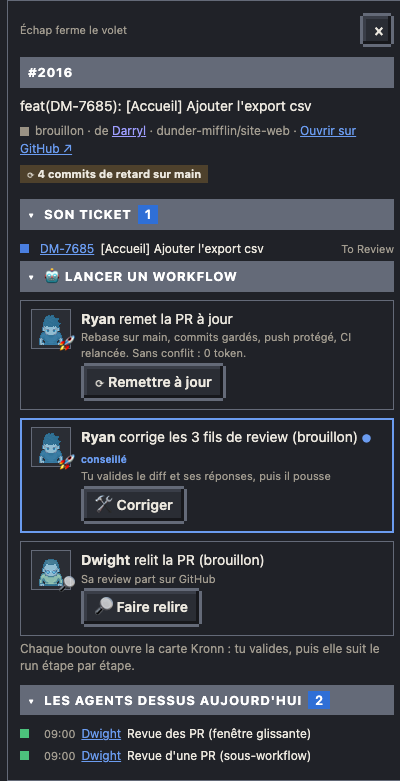
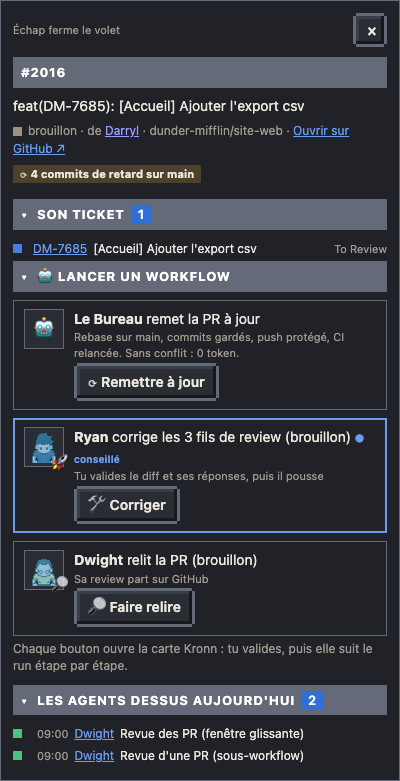
feat(fiches): un agent par bouton, rattachable par le pack
« Remettre à jour » prenait l'agent de « Corriger », et un intérimaire
(un workflow sans agent, renommé chaque jour) pouvait incarner un
bouton : deux boutons pour un même agent, et un nom qui change. Chaque
bouton montre désormais son agent à lui, sinon l'hologramme du Bureau.

« 🚀 Déployer la branche » montre aussi son agent en tête
(« Stanley déploie la branche »), comme les autres actions.

Un personnage du pack se rattache à un bouton des fiches par model
(« rebase », « env », « deploy » : clés de action_ids, workflow du
Bureau compris), ce que l'installateur ne propose jamais : toute
l'équipe a le même agent sur le même bouton.

diff --git a/page/src/62-deploy.js b/page/src/62-deploy.js
@@ -43,13 +43,15 @@ function dpLabel(s){
   if(s.mine)return s.ko?'↻ Relancer':'↻ Redéployer';
   return s.other?'⇄ Remplacer…':'🚀 Déployer';
 }
+const dpHead=c=>c?`<b>${esc(c.name)}</b> déploie la branche`:'<b>Déployer la branche</b>'; // son agent, sinon le titre seul
 function deployBlock(box,p){
   const envs=dpEnvs(p);if(!envs.length)return;
   const rows=new Set(((ACTS&&ACTS.deploys)||[]).map(d=>d.id));
   const host=document.createElement('div');host.className='relaunch la dp';host.setAttribute('data-kronn-action-slot-host','');
-  host.innerHTML='<div class="la-av" aria-hidden="true">🚀</div>';
+  const c=actAgent('bureau-deploy'); // un agent par bouton des fiches ; sans agent, la fusée
+  if(c)host.appendChild(agentFace(c,'la-av'));else host.innerHTML='<div class="la-av" aria-hidden="true">🚀</div>';
   const t=document.createElement('div');t.className='la-t';
-  t.innerHTML=`<div class="la-n"><b>Déployer la branche</b></div><div class="rl-s">Construit <code class="dp-br">${esc(p.head)}</code> et la pousse sur un env partagé. Qui l'occupe en ce moment :</div>`;
+  t.innerHTML=`<div class="la-n">${dpHead(c)}</div><div class="rl-s">Construit <code class="dp-br">${esc(p.head)}</code> et la pousse sur un env partagé. Qui l'occupe en ce moment :</div>`;
   const list=document.createElement('div');list.className='dp-envs';
   for(const {repo,env} of envs){
     const s=dpState(p,repo,env), E=env.toUpperCase(), id=prId(p)+'|'+env, label=dpLabel(s);

diff --git a/page/src/62-ticket.js b/page/src/62-ticket.js
@@ -53,13 +53,14 @@ function bindsFor(action,row){
 }
 // ---------- qui fait quoi dans « Lancer un workflow » (#86) ----------
 // chaque bouton montre l'agent qui l'incarne : celui dont agents[].wf contient l'id du workflow de l'action (CFG.action_wf,
-// calculé à l'assemblage ; jamais un nom écrit en dur) ; « Remettre à jour » sans agent : celui de « Corriger » ;
-// « Commenter » : toi (le commentaire part avec ton compte Jira) ; sinon l'hologramme du Bureau
+// calculé à l'assemblage ; jamais un nom écrit en dur), un agent par workflow, jamais celui d'un autre bouton ni un
+// intérimaire (il change chaque jour) ; « Commenter » : toi (le commentaire part avec ton compte Jira) ; sinon
+// l'hologramme du Bureau
 const actKey=a=>({meppr:'mep_pr',fixpr:'fix_pr'})[a.slice(7)]||a.slice(7); // 'bureau-fixpr' -> clé fix_pr de la config
 function actAgent(action){
   const wf=((CFG.action_wf||{})[actKey(action)]||'').slice(0,8);
-  return wf&&chars.find(x=>!x.person&&!x.visitor&&(x.wf||[]).includes(wf))
-    ||(action==='bureau-rebase'?actAgent('bureau-fixpr')||actAgent('bureau-fix'):action==='bureau-comment'?chars.find(x=>x.boss):null)||null;
+  return wf&&chars.find(x=>!x.person&&!x.visitor&&!x.temp&&(x.wf||[]).includes(wf))
+    ||(action==='bureau-comment'?chars.find(x=>x.boss):null)||null;
 }
 // le run en cours de cet agent sur ce ticket ou cette PR (sa carte dit « dessus depuis… » et grise le bouton), sinon null
 function agentBusy(c,bind){

diff --git a/tests/ticket.test.js b/tests/ticket.test.js
@@ -161,9 +161,11 @@ const WITH = (code, body) => J(`(() => { const c0 = chars.slice(), a0 = CFG.acti
   Object.assign(ACTIONS, {impl: true, review: true, fix_pr: true, rebase: true, mep_pr: true, mep: false});
   try { ${code}; return (${body}); } finally { chars.length = 0; chars.push(...c0); CFG.action_wf = a0; Object.assign(ACTIONS, ac0); } })()`);
 
-test('#86 agent de chaque action : celui dont agents[].wf contient le workflow ; rebase sans agent : celui de Corriger ; Commenter : toi', () => {
+test('#86 agent de chaque action : celui dont agents[].wf contient le workflow, jamais celui d\'un autre bouton ni un intérimaire ; Commenter : toi', () => {
   assert.deepEqual(WITH('', `['bureau-fixpr', 'bureau-review', 'bureau-meppr', 'bureau-impl', 'bureau-rebase'].map(a => (actAgent(a) || {}).name)`),
-    ['Nate', 'Mose', 'Darryl', 'Ryan', 'Nate']);
+    ['Nate', 'Mose', 'Darryl', 'Ryan', null]); // rebase sans agent : l'hologramme, plus celui de « Corriger »
+  assert.equal(WITH(`chars.push({key: 'temp_eeee5555', name: 'Intérimaire 1', wf: ['eeee5555'], temp: true, runs: []})`, `actAgent('bureau-rebase')`), null);
+  assert.equal(WITH(`chars.push({key: 'jim', name: 'Jim', wf: ['eeee5555'], runs: []})`, `actAgent('bureau-rebase').name`), 'Jim');
   assert.equal(WITH('', `actAgent('bureau-comment') === chars.find(c => c.boss)`), true);
   assert.equal(WITH('CFG.action_wf = {}', `actAgent('bureau-review')`), null); // sans agent : l'hologramme du Bureau
 });

diff --git a/tests/deploy.test.js b/tests/deploy.test.js
@@ -70,3 +70,11 @@ test('juste après un lancement : « ⏳ demandé » (grisé) jusqu\'au run GitH
   assert.equal(dev(run({ref: 'feat/DM-1', start: at(60)}), {asked: 30e3}).label, null); // vieux run : toujours demandé
   assert.equal(dev(null, {asked: 16 * 60e3}).label, '🚀 Déployer'); // 15 min passées sans run : on oublie
 });
+
+test('en tête du bloc : l\'agent du modèle deploy (« Stanley déploie la branche »), sinon le titre seul', () => {
+  const head = wf => J(`(() => { const c0 = chars.slice(), a0 = CFG.action_wf;
+    chars.push({key: 'stanley', name: 'Stanley', wf: ['ffff6666'], runs: []}); CFG.action_wf = {deploy: '${wf}'};
+    try { return dpHead(actAgent('bureau-deploy')); } finally { chars.length = 0; chars.push(...c0); CFG.action_wf = a0; } })()`);
+  assert.equal(head('ffff6666'), '<b>Stanley</b> déploie la branche');
+  assert.equal(head('99999999'), '<b>Déployer la branche</b>');
+});

diff --git a/tools/assemble.py b/tools/assemble.py
@@ -392,11 +392,12 @@ def merged(cfg):
         personas = {a["key"]: {k: v for k, v in a.items() if k != "model"} for a in s["agents"]}
         out["agents"] = [_agent(personas.get(a.get("key"), {}), a) for a in cfg.get("agents") or []]
         # personnage qui incarne un modèle du Bureau (clé model, #78) : rattaché d'office à ses workflows créés par
-        # l'installateur (models), sauf si la config le rattache déjà
-        bound, models = {a.get("key") for a in out["agents"]}, cfg.get("models") or {}
+        # l'installateur (models), sauf si la config le rattache déjà ; aussi un bouton des fiches (« rebase », « env » :
+        # le workflow du Bureau ou le tien, action_ids), que l'installateur ne propose jamais comme agent
+        bound, models = {a.get("key") for a in out["agents"]}, {**action_ids(cfg), **(cfg.get("models") or {})}
         for a in s["agents"]:
             want = [a["model"]] if isinstance(a.get("model"), str) else a.get("model") or []
-            wf = [models[m][:8] for m in want if models.get(m)]
+            wf = [str(models[m])[:8] for m in want if models.get(m)]
             if a["key"] not in bound and wf:
                 out["agents"].append(_agent({k: v for k, v in a.items() if k != "model"}, {"wf": wf}))
     return out

diff --git a/tests/test_models.py b/tests/test_models.py
@@ -132,6 +132,13 @@ class ModelsTest(unittest.TestCase):
         a = assemble.merged(c)["agents"]
         self.assertEqual(a[0], {"key": "dwight", "name": "Dwight", "role": "Revue des PR", "wf": ["99999999"]})  # rattaché par la config
         self.assertEqual(a[1], {"key": "mose", "name": "Mose", "role": "Relit une PR", "wf": ["aaaa1111"]})  # d'office, par son modèle
+        # un bouton des fiches aussi : workflow du Bureau (actions.rebase) ou le tien (launch.env), jamais proposé par l'installateur
+        Path(os.path.join(pack, "settings.json")).write_text(json.dumps({"agents": [
+            {"key": "jim", "name": "Jim", "role": "Remettre une PR à jour", "model": "rebase"},
+            {"key": "kevin", "name": "Kevin", "role": "Env de branche", "model": "env"}]}))
+        c = {**cfg(actions={"rebase": "cccc3333-0000-4000-8000-000000000000"}, launch={"env": {"wf": "dddd4444-0000-4000-8000-000000000000"}}),
+             "team": pack, "agents": []}
+        self.assertEqual([(x["key"], x["wf"]) for x in assemble.merged(c)["agents"]], [("jim", ["cccc3333"]), ("kevin", ["dddd4444"])])
         shutil.rmtree(tmp)
 
     def test_env_branch_model_relabels_the_pr_and_comes_from_the_team_pack(self):

diff --git a/guide/fonctionnalites/07-fiches.md b/guide/fonctionnalites/07-fiches.md
@@ -52,7 +52,7 @@ Sous « Personnaliser », sa ligne d'état tient sur une ligne (« Teste 7 ticke
 
 ![La carte Kronn du déplacement](../img/carte-deplacer.png)
 
-Dans « 🤖 Lancer un workflow », chaque action montre **l'agent qui la fait** : son portrait pixel, l'icône de son métier, et une phrase (« **Nate** corrige les 5 fils de review »). L'agent est celui dont les workflows (`agents[].wf`, ou un personnage du pack) contiennent le workflow du bouton : son nom n'est jamais écrit en dur. « Remettre à jour » sans agent à lui est fait par l'agent de « Corriger » ; « Commenter », c'est toi (ton compte Jira) ; une action sans agent montre l'hologramme du Bureau. Un clic sur le portrait ouvre la fiche de l'agent. Les actions sont rangées par PR (« Sur la PR #1988 ») puis « Sur le ticket ». En tête, un bandeau montre **où en est le ticket** : implémente › corrige › relit › met en prod, avec l'agent de chaque étape (fait en vert, en cours en couleur, à venir en gris ; seulement les étapes que tu as branchées). L'action logique est encadrée, **● conseillé** : conflit ou retard sur la base → Remettre à jour, fils de review ouverts → Corriger, sinon Faire relire ; en To Deploy → Mettre en prod ; à faire sans PR → Implémenter. Une action pas encore possible est **grisée avec sa raison** (« quand le ticket sera en To Deploy (aujourd'hui : To Review) »). Quand l'agent est déjà dessus (un run en cours sur ce ticket ou cette PR), son bouton est grisé : « Nate est dessus depuis 10h12 ». Le coût moyen d'un run de l'agent (fiche de paie, 7 jours) s'affiche à côté quand il est connu.
+Dans « 🤖 Lancer un workflow », chaque action montre **l'agent qui la fait** : son portrait pixel, l'icône de son métier, et une phrase (« **Nate** corrige les 5 fils de review »). L'agent est celui dont les workflows (`agents[].wf`, ou un personnage du pack) contiennent le workflow du bouton : son nom n'est jamais écrit en dur. Un agent par bouton : jamais celui d'un autre bouton, ni un intérimaire (celui-là change chaque jour) ; « Commenter », c'est toi (ton compte Jira) ; une action sans agent montre l'hologramme du Bureau. Pour donner le même agent à toute l'équipe, le pack le rattache au bouton (`"model": "rebase"`, voir [Équipe](../equipe.md)). Un clic sur le portrait ouvre la fiche de l'agent. Les actions sont rangées par PR (« Sur la PR #1988 ») puis « Sur le ticket ». En tête, un bandeau montre **où en est le ticket** : implémente › corrige › relit › met en prod, avec l'agent de chaque étape (fait en vert, en cours en couleur, à venir en gris ; seulement les étapes que tu as branchées). L'action logique est encadrée, **● conseillé** : conflit ou retard sur la base → Remettre à jour, fils de review ouverts → Corriger, sinon Faire relire ; en To Deploy → Mettre en prod ; à faire sans PR → Implémenter. Une action pas encore possible est **grisée avec sa raison** (« quand le ticket sera en To Deploy (aujourd'hui : To Review) »). Quand l'agent est déjà dessus (un run en cours sur ce ticket ou cette PR), son bouton est grisé : « Nate est dessus depuis 10h12 ». Le coût moyen d'un run de l'agent (fiche de paie, 7 jours) s'affiche à côté quand il est connu.
 
 Les actions :
 - **Implémenter** : ticket à faire ou en cours, sans PR. Après ta validation du plan, le workflow t'assigne le ticket et le passe « En cours » dans Jira, puis code, ouvre la PR et la fait relire.
@@ -72,7 +72,7 @@ Les actions :
   "launch": {"env": {"wf": "<id de ton workflow>", "vars": {"pr": "pr_number", "action": "action"},
                      "repos": ["owner/depot"], "action": "reposer"}}
   ```
-- **🚀 Déployer la branche** : sur chaque PR d'un dépôt réglé, une ligne par env hors prod (DEV, STG…). Chaque ligne dit ce qui occupe l'env : la branche ou la version déployée, qui l'a lancée, depuis quand, et le lien vers le run GitHub (relu chaque minute par le cron live). Le bouton suit : **🚀 Déployer** sur un env libre ou que tu occupes ; **⇄ Remplacer…** quand il porte la branche de quelqu'un d'autre (la fenêtre de la carte Kronn le prévient avant Lancer : son test s'arrête) ; **↻ Redéployer** ou **↻ Relancer** (après un échec) quand c'est déjà ta branche. Juste après le clic, « ⏳ demandé », puis « ⏳ ta branche arrive · lancé il y a 4 min » tant que le run tourne : le bouton est grisé. C'est le modèle du Bureau « déployer la branche d'une PR (hors prod) » (`models.deploy`, `gh`, 0 token), que l'installateur propose quand le pack le règle : il lance le workflow hors prod du dépôt sur la branche de la PR (`gh workflow run --ref`), avec les inputs de l'env. Il refuse tout dépôt ou env hors réglage, une PR fermée ou d'une fork, et tout workflow de prod (`prod_workflow` de la config, ou « prod » dans son nom hors « nonprod »). Une version laissée vide fait construire la branche ; un dépôt qui n'accepte qu'un tag ne se règle pas ici.
+- **🚀 Déployer la branche** : sur chaque PR d'un dépôt réglé, avec son agent en tête (« **Stanley** déploie la branche », la fusée sans agent), une ligne par env hors prod (DEV, STG…). Chaque ligne dit ce qui occupe l'env : la branche ou la version déployée, qui l'a lancée, depuis quand, et le lien vers le run GitHub (relu chaque minute par le cron live). Le bouton suit : **🚀 Déployer** sur un env libre ou que tu occupes ; **⇄ Remplacer…** quand il porte la branche de quelqu'un d'autre (la fenêtre de la carte Kronn le prévient avant Lancer : son test s'arrête) ; **↻ Redéployer** ou **↻ Relancer** (après un échec) quand c'est déjà ta branche. Juste après le clic, « ⏳ demandé », puis « ⏳ ta branche arrive · lancé il y a 4 min » tant que le run tourne : le bouton est grisé. C'est le modèle du Bureau « déployer la branche d'une PR (hors prod) » (`models.deploy`, `gh`, 0 token), que l'installateur propose quand le pack le règle : il lance le workflow hors prod du dépôt sur la branche de la PR (`gh workflow run --ref`), avec les inputs de l'env. Il refuse tout dépôt ou env hors réglage, une PR fermée ou d'une fork, et tout workflow de prod (`prod_workflow` de la config, ou « prod » dans son nom hors « nonprod »). Une version laissée vide fait construire la branche ; un dépôt qui n'accepte qu'un tag ne se règle pas ici.
 
   ![Déployer la branche : DEV pris par la branche d'un collègue, STG par une version](../img/deployer-branche.png)
 

diff --git a/docs/conventions/pack-equipe.md b/docs/conventions/pack-equipe.md
@@ -19,7 +19,7 @@ Un pack introuvable (pas de `team.json`) est une erreur, jamais une page sans so
 | `team.json` | `name`, `layout` (chemin relatif au pack, sinon au dépôt), `github_org` (seuls ses membres actifs peuvent l'installer) | oui |
 | `roster.json` | `people` (clé, nom, rôle, `person` = nom exact dans Jira, `github`, `roleKind`, place…) et `guests` | non |
 | `defaults.json` | réglages proposés à l'installation (`page_title`, `rhythm`, `ui.skin`, `jira`, `github`, `mail.messengers` : règles de porteurs du courrier, reprises par l'installateur si l'installation n'en a pas) | non |
-| `settings.json` | réglages d'équipe lus à chaque assemblage et rendu des modèles (#32) : `rhythm`, `gitfut`, `wiki_posters`, `microsoft.planning`, `agents` (personnages : `key`, `name`, `role`, `seat`, `sprite`…, sans `wf` ; `model` = clé ou liste de clés de `models`, #78 : rattaché d'office à ces modèles installés ; `holo` = `leger`, `rouge` ou `alerte`, #62), `review` (#78 : `guidelines`, `skill_ids`, `repos`, `schedule`, posés sous `review` de la config qui garde `page_id` et `project_id`), `support` (#62 : `name`, `team`, `channel` du canal de la console Support, fusionné clé à clé avec la config), `jira` (#77 : seulement `create`, la création d'un ticket : `types`, `type`, `components`, `component_required`, `points_field`, `template` ; fusionné clé à clé avec `jira.create` de la config, la connexion, le projet et le board restant à l'installation), `env` (env de branche d'une PR : `label`, défaut `env-branch`, `repos`, dépôts du bouton, et `url`, motif (regex) de l'adresse de l'env dans les commentaires de la PR, relevée par `github_snapshot` ; lu par le modèle `env` et `assemble.env_repos`, fusionné clé à clé avec la config), `deploy` (déployer la branche d'une PR hors prod : `repos` = {dépôt: {`workflow` facultatif, sinon son `staging_workflow` ; `envs` = {env: inputs du workflow_dispatch}}} ; lu par le modèle `deploy` (`workflows/deploy.py`), `assemble.deploy_envs`, `actions_snapshot` et `live_snapshot`, fusionné clé à clé avec la config). Posés SOUS la config (`assemble.merged`) : la config surcharge clé à clé (rythme, planning) ou en entier (GitFut, affiches) ; un agent n'apparaît que si la config le rattache (`agents[] = {key, wf}`). `microsoft.config_id` et `agents[].wf` y sont ignorés | non |
+| `settings.json` | réglages d'équipe lus à chaque assemblage et rendu des modèles (#32) : `rhythm`, `gitfut`, `wiki_posters`, `microsoft.planning`, `agents` (personnages : `key`, `name`, `role`, `seat`, `sprite`…, sans `wf` ; `model` = clé ou liste de clés de `models`, #78 : rattaché d'office à ces modèles installés ; ou d'un bouton des fiches (`rebase`, `env`, `deploy`… : clés de `assemble.action_ids`, le workflow du Bureau ou celui de `launch`), que l'installateur ne propose jamais comme agent ; `holo` = `leger`, `rouge` ou `alerte`, #62), `review` (#78 : `guidelines`, `skill_ids`, `repos`, `schedule`, posés sous `review` de la config qui garde `page_id` et `project_id`), `support` (#62 : `name`, `team`, `channel` du canal de la console Support, fusionné clé à clé avec la config), `jira` (#77 : seulement `create`, la création d'un ticket : `types`, `type`, `components`, `component_required`, `points_field`, `template` ; fusionné clé à clé avec `jira.create` de la config, la connexion, le projet et le board restant à l'installation), `env` (env de branche d'une PR : `label`, défaut `env-branch`, `repos`, dépôts du bouton, et `url`, motif (regex) de l'adresse de l'env dans les commentaires de la PR, relevée par `github_snapshot` ; lu par le modèle `env` et `assemble.env_repos`, fusionné clé à clé avec la config), `deploy` (déployer la branche d'une PR hors prod : `repos` = {dépôt: {`workflow` facultatif, sinon son `staging_workflow` ; `envs` = {env: inputs du workflow_dispatch}}} ; lu par le modèle `deploy` (`workflows/deploy.py`), `assemble.deploy_envs`, `actions_snapshot` et `live_snapshot`, fusionné clé à clé avec la config). Posés SOUS la config (`assemble.merged`) : la config surcharge clé à clé (rythme, planning) ou en entier (GitFut, affiches) ; un agent n'apparaît que si la config le rattache (`agents[] = {key, wf}`). `microsoft.config_id` et `agents[].wf` y sont ignorés | non |
 | `cast.json` | recettes d'avatar LPC par clé de personne (composées dans le navigateur) | non |
 | `sprites/` et `sprites.json` | planches fournies telles quelles ; `sprites.json` se fabrique par `python3 sprites/build_sprites.py <pack>`, qui avertit d'une marche de côté figée (`frozen_side_walk`) | non |
 | `music/music.json` | morceau de chaque personne (carte « Sa musique »), pochette en data URI à côté | non |

diff --git a/guide/equipe.md b/guide/equipe.md
@@ -84,7 +84,7 @@ La première ligne donne son nom au bouton 🎨 ; remplace partout `data-skin="c
 ## 6. Le reste, facultatif
 
 - `defaults.json` : le titre de la page, ton Jira et ton dépôt GitHub, proposés à l'installation (recopiés dans la config de chacun).
-- `settings.json` : les réglages de toute l'équipe, lus à chaque publication de la page et des crons, sans rien recopier : le rythme (fuseau, heures de bureau, heure et durée du daily, gel des mises en prod, week-end), les cartes GitFut, les affiches du Top 3, le planning des absences (site et classeur SharePoint) et les **personnages des agents** (clé, nom, métier, place, sprite). Pas d'id Kronn dedans : chacun rattache les personnages à ses propres workflows à l'installation (`python3 tools/install.py --rattacher` pour le refaire), et sa config peut surcharger n'importe quel réglage (un autre daily, par exemple). Un personnage peut incarner un modèle du Bureau (`"model": "review_one"`, ou une liste) : il est alors rattaché d'office au workflow que l'installateur a créé. La revue de PR par un agent lit aussi dans `settings.json` la clé `review` : `guidelines` (consignes de l'équipe ajoutées à la grille du Bureau, par exemple vos conventions ou la posture pour les débutants), `skill_ids` (skills Kronn de l'équipe), `repos` (dépôts relus par le cron, sinon les PR suivies) et `schedule` (heures UTC du cron). Le bouton « 🌿 Générer l'env de branche » des fiches lit la clé `env` : `label` (le label GitHub qui construit l'environnement d'une PR, `env-branch` par défaut), `repos` (les dépôts concernés) et `url` (le motif de l'adresse de l'env que la CI poste en commentaire de la PR : le Kanban en fait un lien) ; avec elle, l'installateur propose d'office le modèle qui le fait marcher, et chacun a le bouton sans rien régler. Le bouton « 🚀 Déployer la branche » lit la clé `deploy` : `repos`, chaque dépôt avec son workflow hors prod (`workflow`, sinon son `staging_workflow`) et ses envs (`envs` : les inputs envoyés au workflow pour chacun, par exemple `{"dev": {"envchoice": "dev", "versiontags": ""}}`) ; jamais la prod.
+- `settings.json` : les réglages de toute l'équipe, lus à chaque publication de la page et des crons, sans rien recopier : le rythme (fuseau, heures de bureau, heure et durée du daily, gel des mises en prod, week-end), les cartes GitFut, les affiches du Top 3, le planning des absences (site et classeur SharePoint) et les **personnages des agents** (clé, nom, métier, place, sprite). Pas d'id Kronn dedans : chacun rattache les personnages à ses propres workflows à l'installation (`python3 tools/install.py --rattacher` pour le refaire), et sa config peut surcharger n'importe quel réglage (un autre daily, par exemple). Un personnage peut incarner un modèle du Bureau (`"model": "review_one"`, ou une liste) : il est alors rattaché d'office au workflow que l'installateur a créé. Pareil pour un bouton des fiches (`"model": "rebase"`, `"env"`, `"deploy"`) : chacun a le même agent sur le même bouton, sans rien rattacher, un agent par bouton. La revue de PR par un agent lit aussi dans `settings.json` la clé `review` : `guidelines` (consignes de l'équipe ajoutées à la grille du Bureau, par exemple vos conventions ou la posture pour les débutants), `skill_ids` (skills Kronn de l'équipe), `repos` (dépôts relus par le cron, sinon les PR suivies) et `schedule` (heures UTC du cron). Le bouton « 🌿 Générer l'env de branche » des fiches lit la clé `env` : `label` (le label GitHub qui construit l'environnement d'une PR, `env-branch` par défaut), `repos` (les dépôts concernés) et `url` (le motif de l'adresse de l'env que la CI poste en commentaire de la PR : le Kanban en fait un lien) ; avec elle, l'installateur propose d'office le modèle qui le fait marcher, et chacun a le bouton sans rien régler. Le bouton « 🚀 Déployer la branche » lit la clé `deploy` : `repos`, chaque dépôt avec son workflow hors prod (`workflow`, sinon son `staging_workflow`) et ses envs (`envs` : les inputs envoyés au workflow pour chacun, par exemple `{"dev": {"envchoice": "dev", "versiontags": ""}}`) ; jamais la prod.
 - `music/music.json` : le morceau de chacun, sur sa fiche (« Sa musique »).
 - Les passions de chacun (`passion` dans le roster) : [Les passions de l'équipe](fonctionnalites/01-plan.md#les-passions-de-léquipe).
 

diff --git a/CHANGELOG.md b/CHANGELOG.md
@@ -34,6 +34,7 @@ Format : [Keep a Changelog](https://keepachangelog.com/fr/1.1.0/). Versions : `0
 
 ### Modifié
 
+- Un agent par bouton des fiches : « ⟳ Remettre à jour » ne prend plus l'agent de « Corriger », et un intérimaire n'incarne plus jamais un bouton (sans agent : l'hologramme du Bureau). « 🚀 Déployer la branche » montre son agent en tête (« Stanley déploie la branche »). Un personnage du pack se rattache aussi à un bouton des fiches (`"model": "rebase"`, `"env"`, `"deploy"`), workflow du Bureau compris, que l'installateur ne propose jamais comme agent : toute l'équipe a le même agent sur le même bouton.
 - Le Mur Kanban devient le lieu des tickets : une barre de personnes en haut (portrait, prénom, nombre de tickets) filtre ses colonnes ; un ticket ouvre sa fiche dans un volet à droite des colonnes (cartes compactes, « Déployé » repliée), un lien du volet y ouvre sa PR et « ← » revient. Tous les liens vers un ticket ou une PR, où qu'ils soient, ouvrent le Kanban filtré sur la personne qui a le ticket ou sur l'auteur de la PR, la fiche dans le volet ; une PR sans ticket dans le sprint y est signalée. Dans la fiche d'un collègue, « Ses tickets » devient un résumé et « ▦ Ses tickets dans le Kanban » ; la fiche ticket et la fiche PR du panneau disparaissent.
 - Panneau ou fenêtre, une règle : le panneau de droite pour consulter, une fenêtre pour gérer ou quand il faut de la place. Le Mur Kanban (six colonnes côte à côte, une carte par ticket, 7 par colonne puis « + N autres ») et le calendrier de l'équipe (les deux semaines côte à côte) passent en fenêtre large ; la console Support passe dans le panneau, comme la boîte aux lettres. « ← » ramène à la vue d'avant (« ← Fiche de paie », « ← Mur Kanban » rouvre la fenêtre), Échap aussi ; chaque fenêtre dit « Échap pour fermer ». Les cartes Kronn lancées du panneau prennent le gabarit des fenêtres : ce qu'on lance (portrait de l'agent ou icône), « ↩ Annuler », les étapes, puis la carte. L'infobulle d'un objet qui ouvre une fenêtre le dit (« ↗ s'ouvre en fenêtre »).
 - Mes pages Kronn : plus de carte « + Ajouter » vide dans la grille ; l'ajout passe par la liste « + Ajouter une page » sous la grille.
